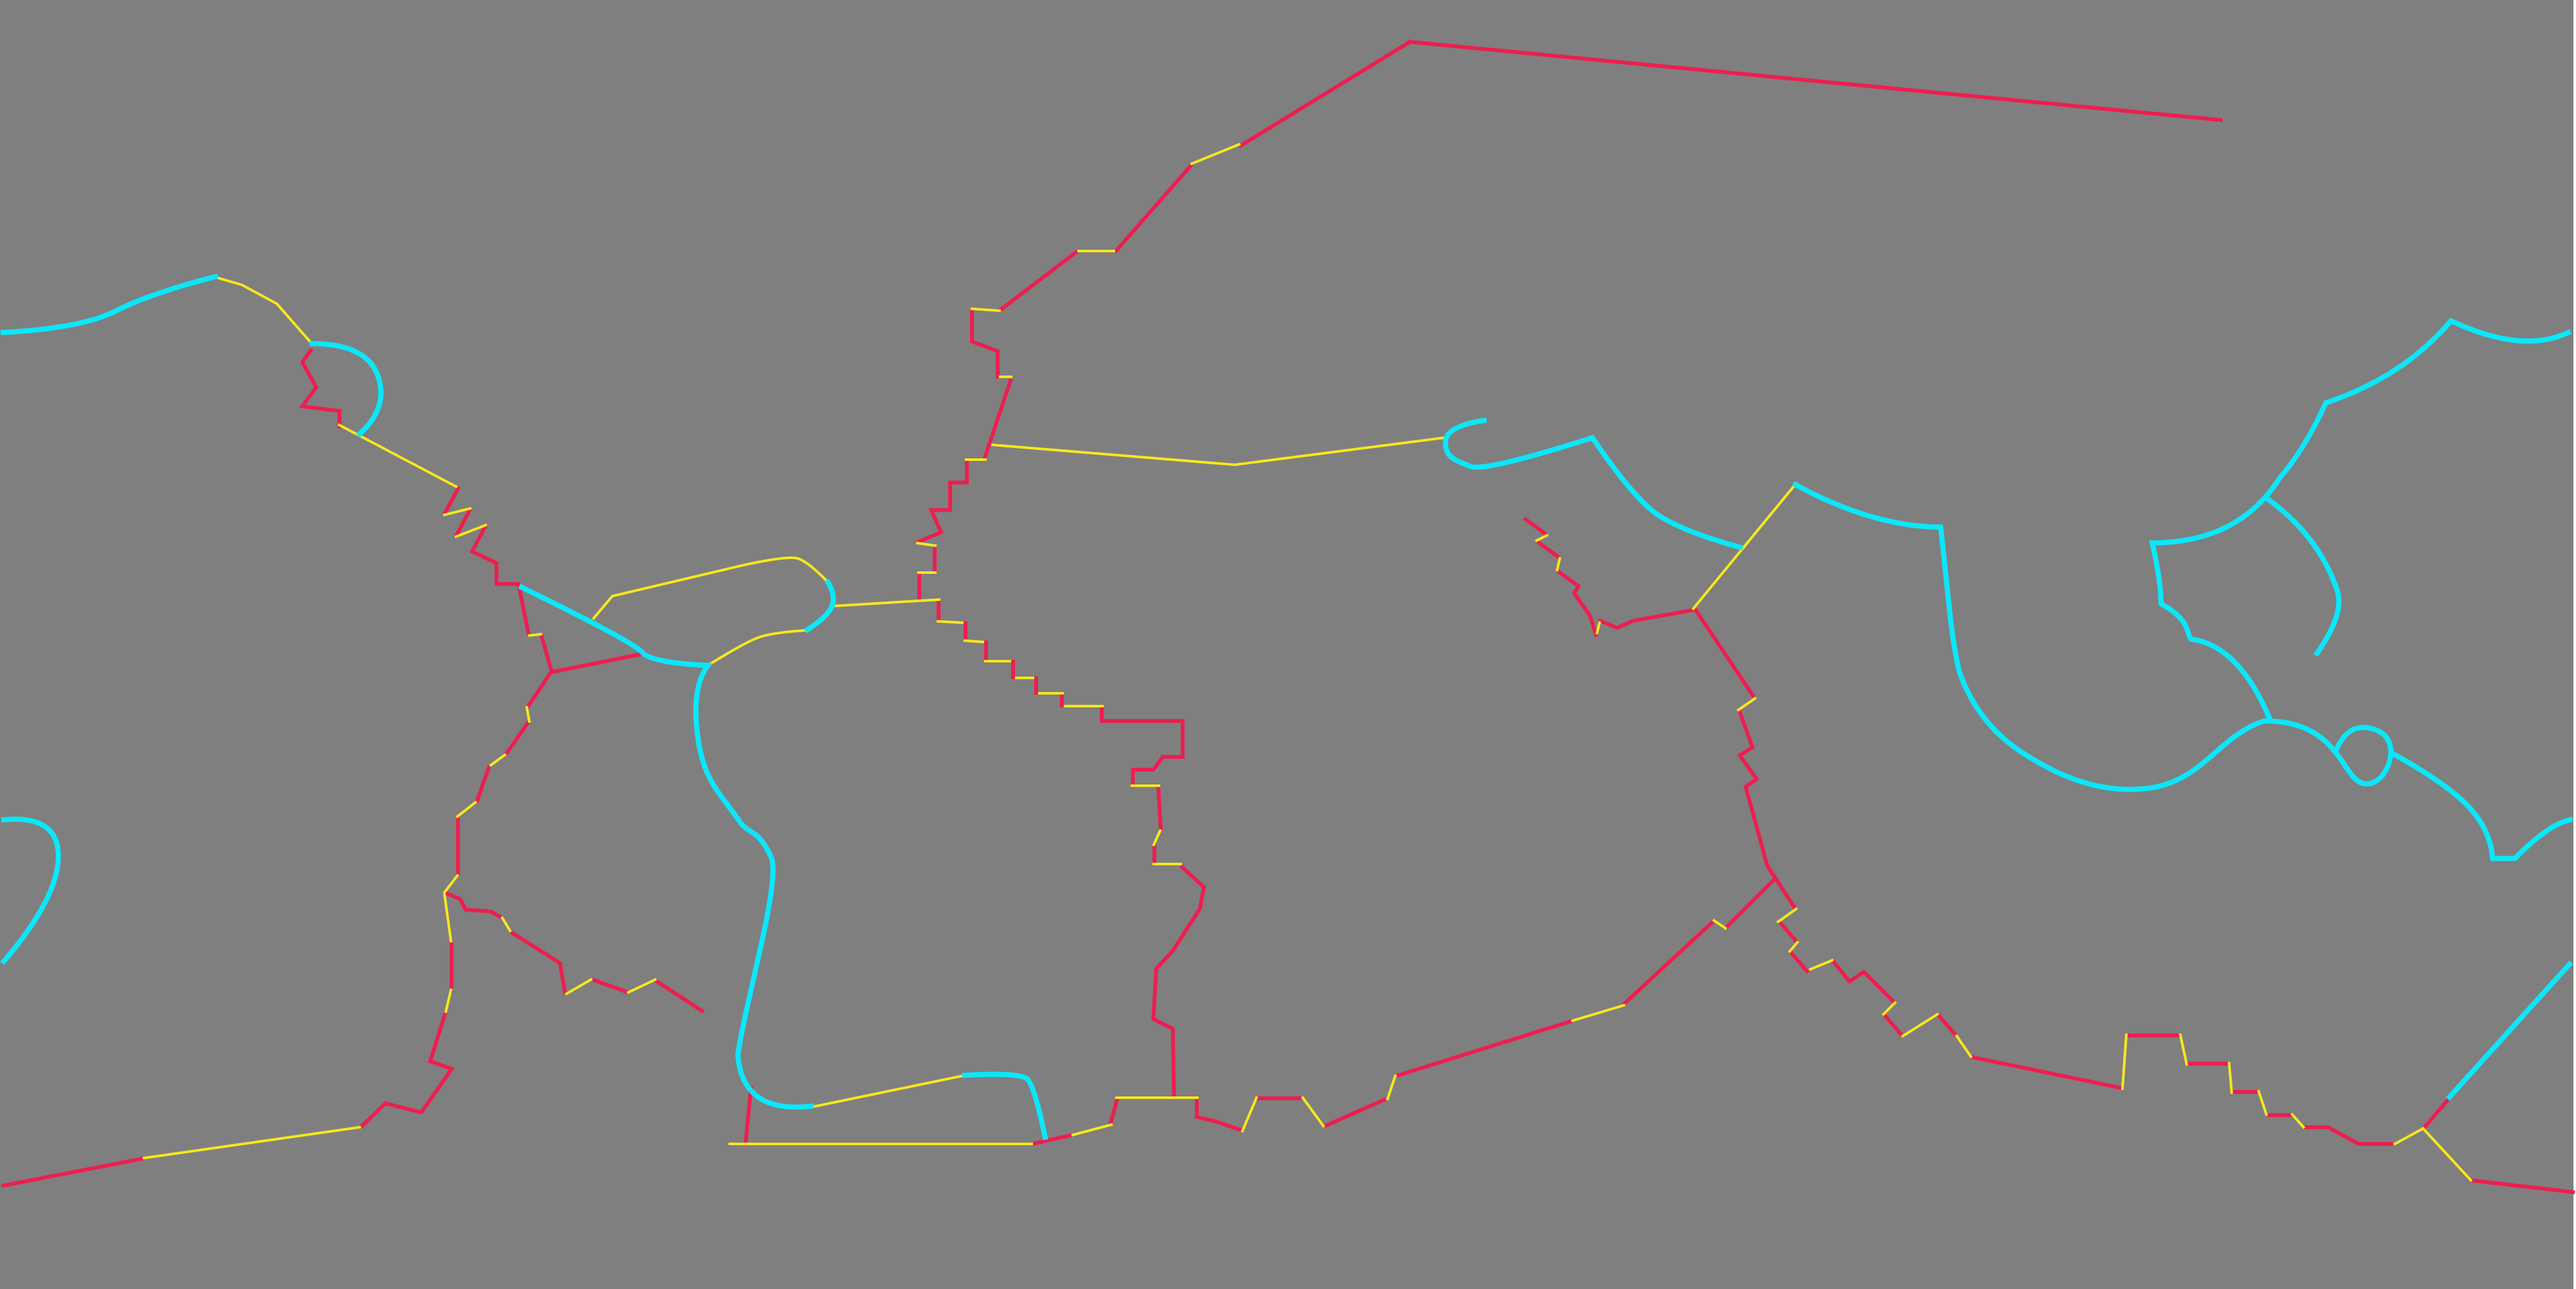
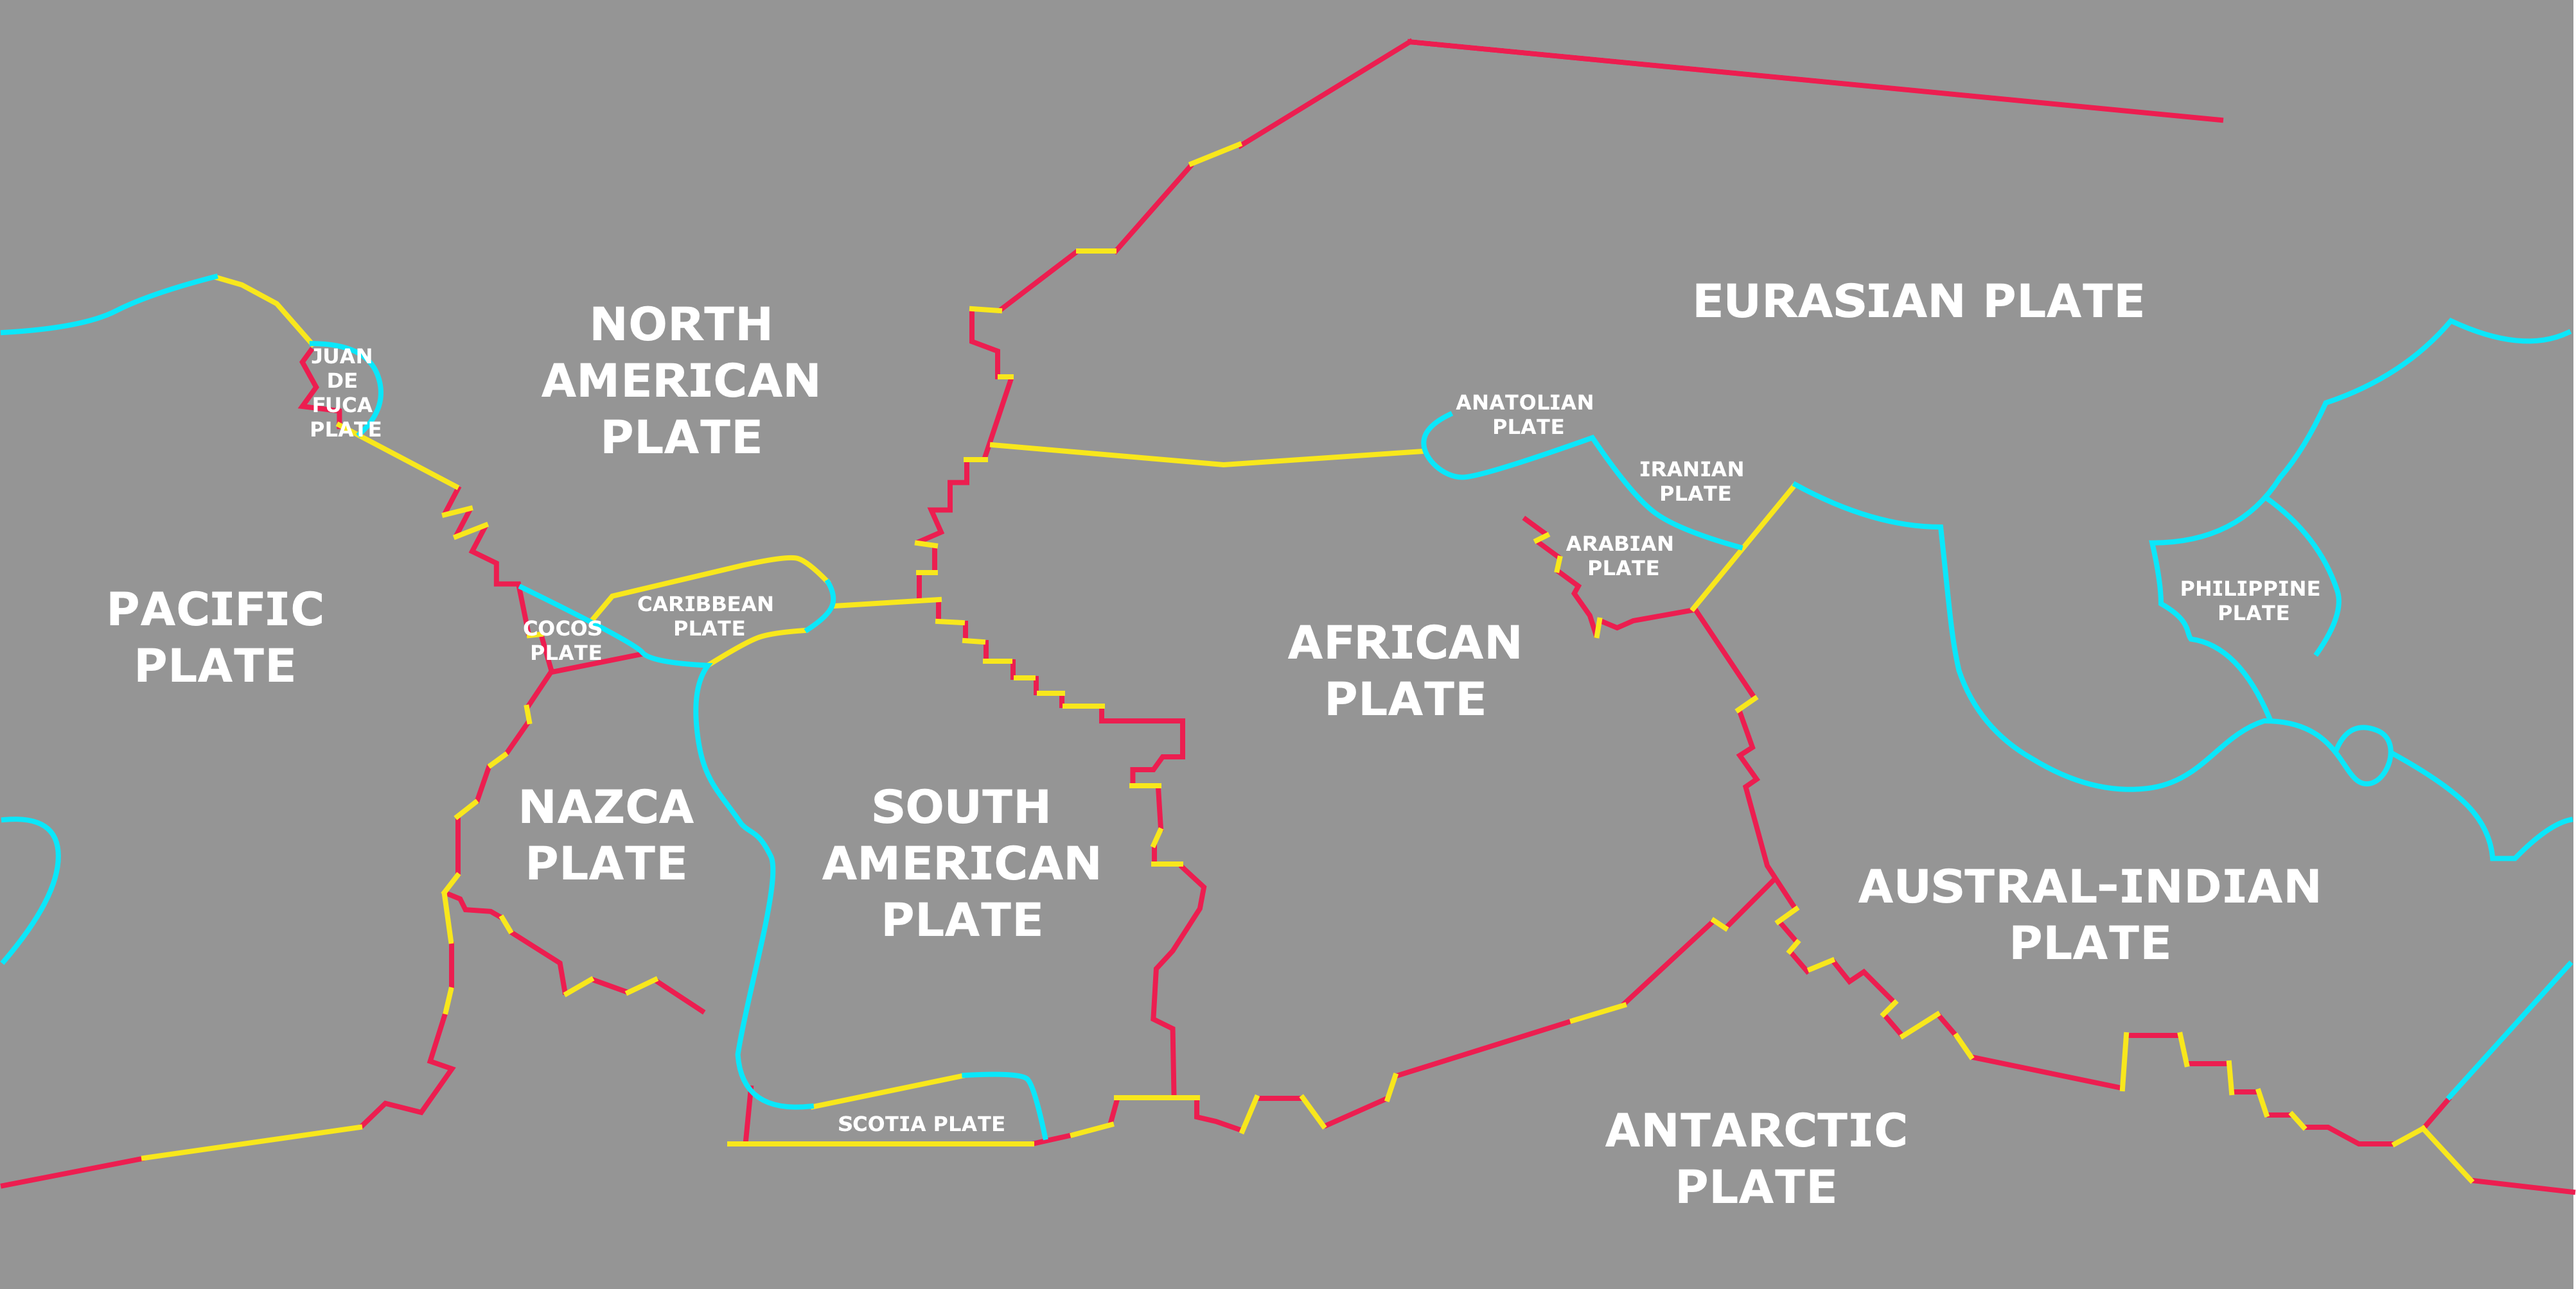
add 3 examples of tectonic plates

diff --git a/plate.html b/plate.html
@@ -41,24 +41,26 @@
                         <span id="range">1965</span>
                     </div>
                 </div>
-<!--                 <div class="row" style="width: 100%;">
-                    <button id = "button1" style = "margin-left:5%" class="button" onclick="runslider()">Start!</button>  
-                </div> -->
                 <div class="row" style="width: 100%;">
                     <div class="col-sm-12 plate-block">
                         <img class="plate-cover" src="img/plate.png">
                         <div id="container1"></div>
                     </div>
                 </div>
-<!--                 <div class="row" style="width: 100%;">
-                    <img style = "margin-left:5%" src="Legend.png">
-                    </div> -->
+                <div class="row label-bar">
+                    <img src="img/plate_labels.png" style="width: 800px;">
+                </div>
             </div>
             <div class="col-sm-3" style="width: 25%"> 
                 <h3>Side Contents</h3>
-                <p> Bubbles on the map a earthquake happening in that location. The size and color of bubbles represent the magnitude and depth of the earthquake.
-                <br>Click the <i>Start!</i> button to see earthquakes from 1965 to 2016. 
-                <br>You can also hover on the bubbles to see more information about that earthquake.</p>
+                <p> Bubbles on the map a earthquake happening in that location. The size and color of bubbles represent the magnitude and depth of the earthquake.</p>
+                <div>
+                    <img src="img/divergent.png">
+                    <img src="img/transform.png">
+                    <img src="img/convergent.png">
+                </div>
+
+
             </div>
         </div>
     </div><br>

diff --git a/css/plate.css b/css/plate.css
@@ -20,3 +20,9 @@
  top: 28px;
  left: 0px;
 }
+
+.label-bar {
+  position: relative;
+  bottom: -440px;
+  margin-bottom: 30px;
+}
